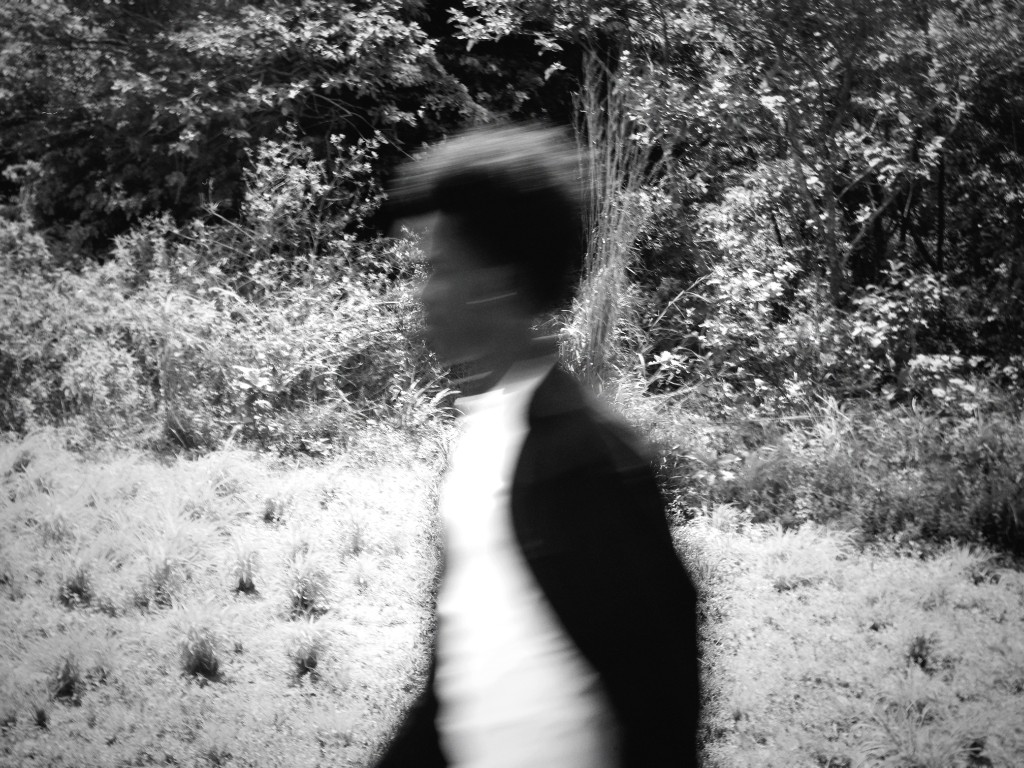
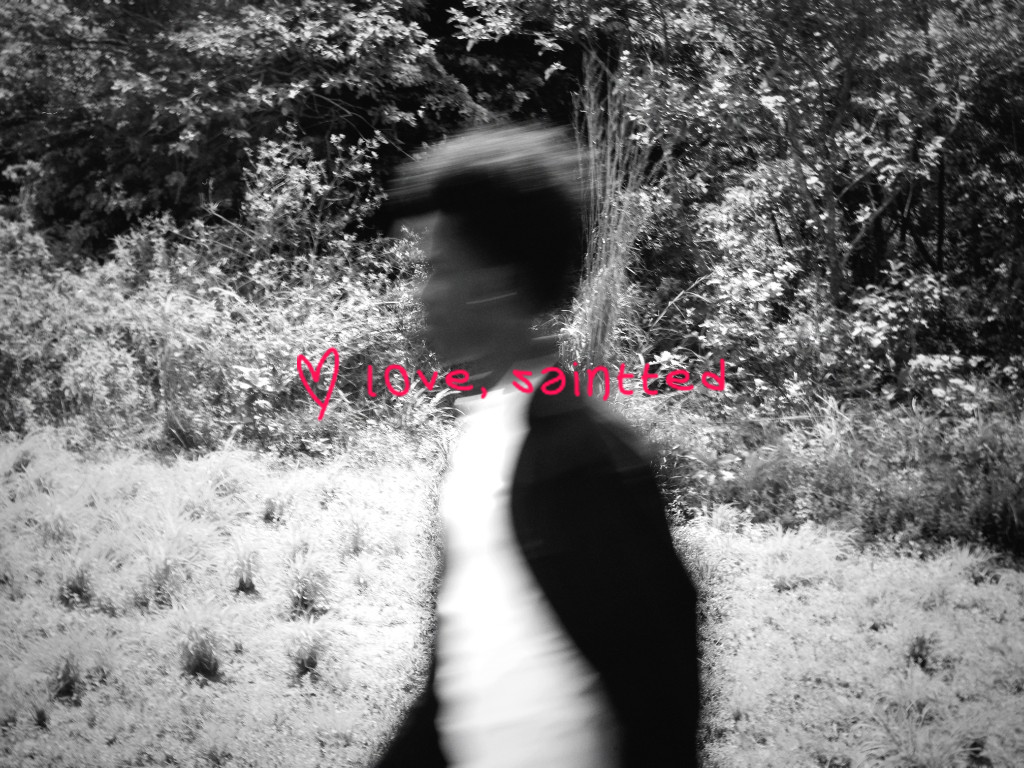
feat: composite love saintted on OG preview image
Center the love-saintted graphic on the social preview image and
update og:image:alt to describe the combined artwork.

Made-with: Cursor

Changed region(s): [[0.2812, 0.4375, 0.7188, 0.5312]]

diff --git a/frontend/index.html b/frontend/index.html
@@ -37,7 +37,7 @@
     <meta property="og:image" content="%SITE_URL%/og-image.png" />
     <meta property="og:image:width" content="1024" />
     <meta property="og:image:height" content="768" />
-    <meta property="og:image:alt" content="saintted black and white portrait" />
+    <meta property="og:image:alt" content="saintted black and white portrait with love, saintted lettering" />
     <meta name="twitter:card" content="summary_large_image" />
     <meta name="twitter:title" content="saintted" />
     <meta name="twitter:description" content="love, saintted" />
